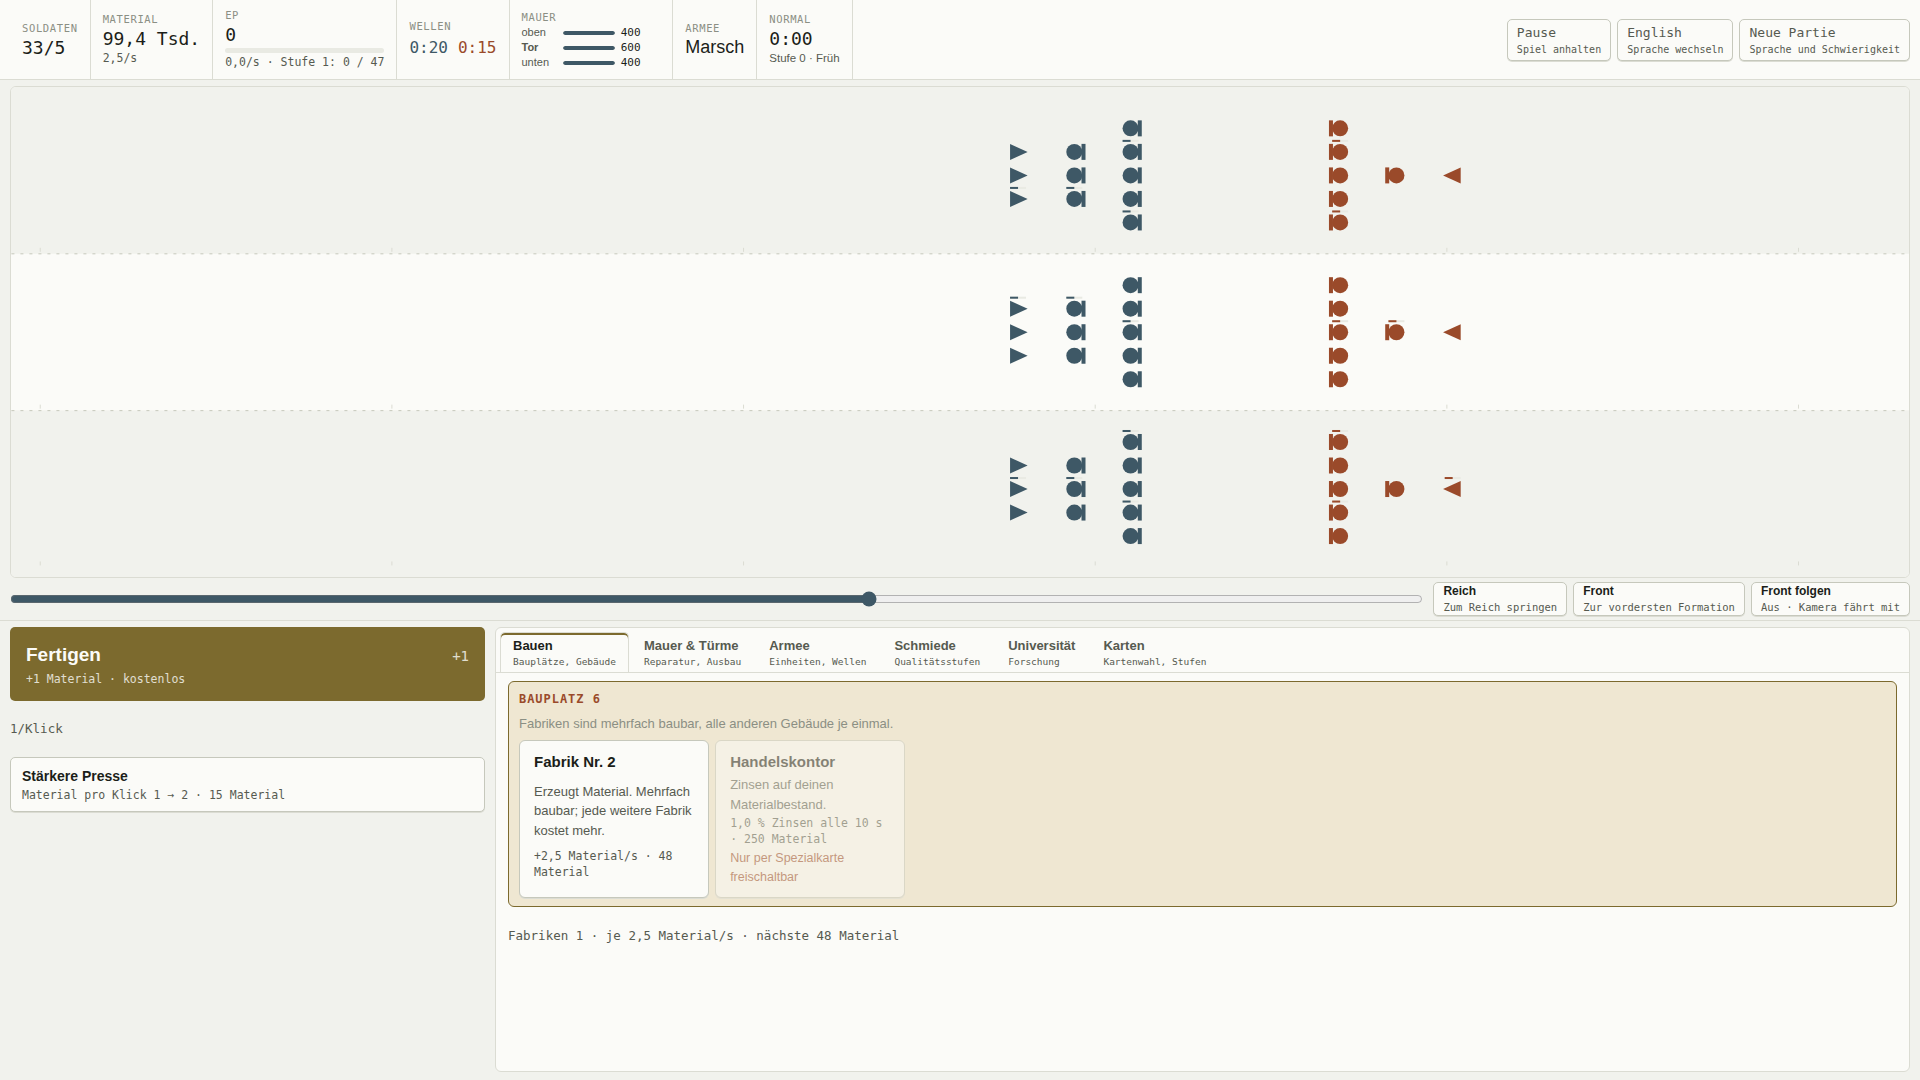
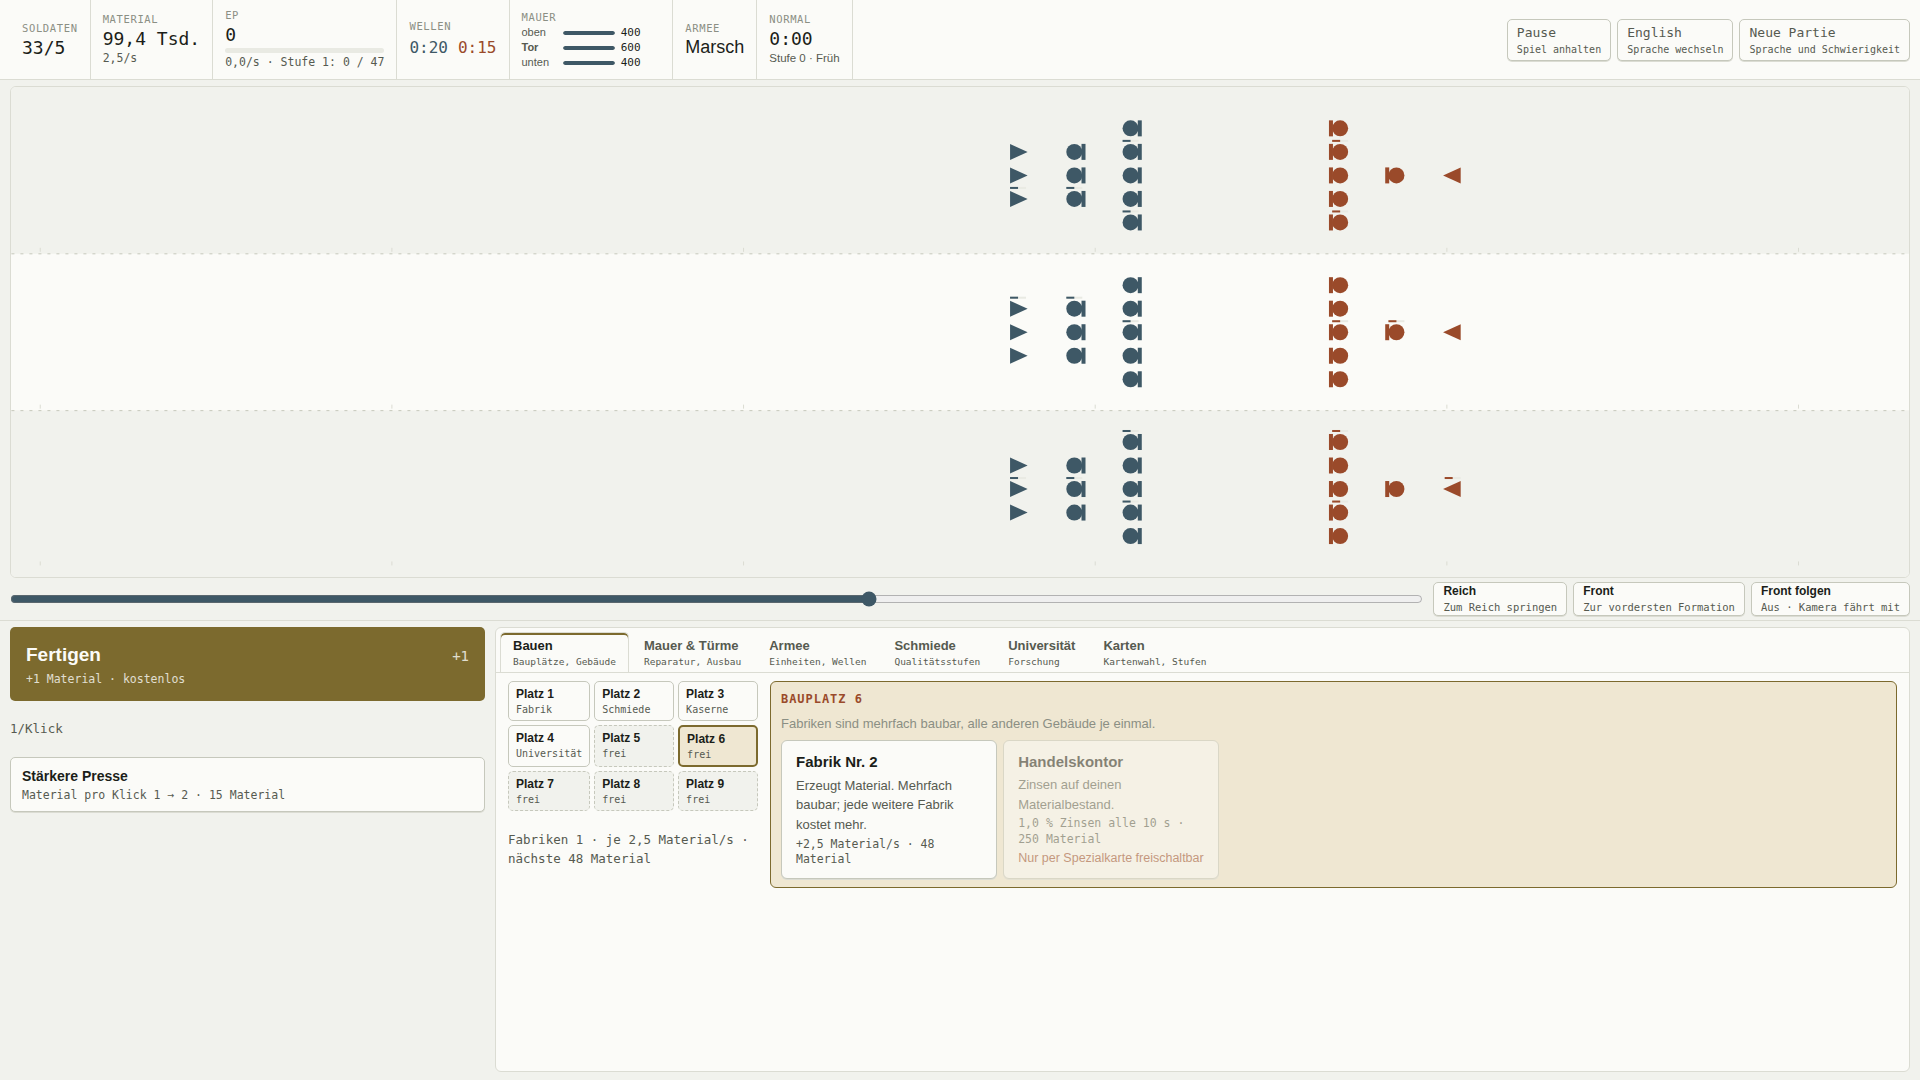
I5.4: Bauen über den Arbeitsbereich – Knopfraster, zwei Klicks, Tastatur
Claude-Session: https://claude.ai/code/session_01RqqApCTqB6RFHL8EkvpfCn

Changed region(s): [[0.25, 0.6111, 1.0, 0.8861], [0.5312, 0.6417, 0.5625, 0.6722]]

diff --git a/panels.js b/panels.js
@@ -8,7 +8,7 @@ const TABS = ['build', 'wall', 'army', 'smithy', 'uni', 'cards'];
 let activeTab = 'build';
 /* Auswahl in der Welt: null | { kind: 'plot', i } | { kind: 'section', lane } */
 let sel = null, ctxKey = '', demolishArmed = false, picks = [];
-const tabEls = {};
+const tabEls = {}, gridEls = [];
 
 /* Reiter eines Objekts: Schmiede und Universität haben eigene Reiter, übrige Gebäude und Bauplätze gehören zu Bauen */
 function tabForSel(s){
@@ -62,6 +62,28 @@ function buildPanels(){
                : e.key === 'Home' ? vis[0] : e.key === 'End' ? vis[vis.length - 1] : null;
     if (next){ e.preventDefault(); selectTab(next, true); }
   });
+  // Knopfraster der Bauplätze (REQ-5.04): Maus oder Tastatur; Pfeiltasten bewegen den Fokus, Enter wählt den Platz
+  // und springt zur ersten baubaren Option, ein zweites Enter baut
+  const grid = $('plotGrid');
+  for (let i = 0; i < KlammerCore.SLOTS; i++){
+    const b = document.createElement('button');
+    b.type = 'button'; b.setAttribute('role', 'gridcell'); b.dataset.tooltip = 'grid:' + i; b.tabIndex = i === 0 ? 0 : -1;
+    b.innerHTML = '<span class="btn-label"></span><span class="expl"></span>';
+    b.addEventListener('click', e => {
+      selectPlot(i);
+      if (e.detail === 0) requestAnimationFrame(() => { renderPanels(); const first = [...document.querySelectorAll('#ctxBuild .pick')].find(p => !isDis(p)); (first || b).focus(); });
+    });
+    grid.appendChild(b);
+    gridEls.push({ btn: b, label: b.children[0], expl: b.children[1] });
+  }
+  grid.addEventListener('keydown', e => {
+    const i = gridEls.findIndex(g => g.btn === document.activeElement);
+    if (i < 0) return;
+    const N = C.GRID_SIZE, r = Math.floor(i / N), c = i % N;
+    const to = e.key === 'ArrowRight' ? r * N + (c + 1) % N : e.key === 'ArrowLeft' ? r * N + (c + N - 1) % N
+             : e.key === 'ArrowDown' ? ((r + 1) % N) * N + c : e.key === 'ArrowUp' ? ((r + N - 1) % N) * N + c : -1;
+    if (to >= 0){ e.preventDefault(); gridEls.forEach((g, k) => { g.btn.tabIndex = k === to ? 0 : -1; }); gridEls[to].btn.focus(); }
+  });
   for (const id in C.UPGRADES) optEls[id] = makeOpt($(GROUP_BOX[C.UPGRADES[id].group]), '', 'upg:' + id, () => G.buy(id));
   for (const id in C.UNITS) optEls['unit_' + id] = makeOpt($('optsUnits'), 'unit', 'unit:' + id, () => G.spawn(id));
   for (let i = 0; i < C.LANE_COUNT; i++) optEls['repair_' + i] = makeOpt($('optsRepair'), '', 'repair:' + i, () => G.repair(i));
@@ -92,8 +114,11 @@ function updatePicks(){
     setDis(p.b, !!block);
   }
 }
+/* Kontextkopf sichtbar im Reiter des Objekts; Bauplätze und ihre Gebäude zeigt er auch im Reiter Bauen,
+   damit nach einem Bau kein Reiterwechsel nötig ist (REQ-5.04) */
+const ctxVisible = () => !!sel && (tabForSel(sel) === activeTab || (sel.kind === 'plot' && activeTab === 'build'));
 function renderContext(){
-  const S = G.S, show = !!sel && tabForSel(sel) === activeTab;
+  const S = G.S, show = ctxVisible();
   setHidden($('ctxHead'), !show);
   const plot = show && sel.kind === 'plot', sl = plot ? S.slots[sel.i] : null, sec = show && sel.kind === 'section' ? sel.lane : null;
   setHidden($('ctxBuilding'), !sl);
@@ -322,7 +347,15 @@ function renderPanels(){
 
   renderOpts();
   renderContext();
-  setHidden($('buildHint'), !!sel && tabForSel(sel) === 'build');
+  setHidden($('buildHint'), !!sel && sel.kind === 'plot');
+  $('tabBody').classList.toggle('side-by-side', activeTab === 'build');
+  for (let i = 0; i < gridEls.length; i++){
+    const g = gridEls[i], sl = S.slots[i];
+    setText(g.label, t('grid.cell', { n: i + 1 }));
+    setText(g.expl, sl ? t(`bld.${sl.type}.name`) : t('grid.free'));
+    g.btn.classList.toggle('built', !!sl);
+    g.btn.setAttribute('aria-selected', String(!!sel && sel.kind === 'plot' && sel.i === i));
+  }
   setText($('factoryStat'), t('fab.stat', { n: G.factoryCount(), rate: fmt1(G.factoryRate()), next: costText('material', G.factoryCost()) }));
   // Armee
   setText($('queue'), `${S.queue.length}/${G.supplyCap()}`);

diff --git a/index.html b/index.html
@@ -270,6 +270,15 @@
   #ctxDemolish:empty, #ctxRepair:empty{display:none;}
   #ctxBuilding[hidden], #ctxRepair[hidden]{display:none;}
   .hintbox{bottom:auto; top:calc(var(--band-hud, 72px) + 8px);}
+  /* Reiter Bauen (REQ-5.04): Knopfraster links, Kontextkopf rechts */
+  .tab-body.side-by-side{display:grid; grid-template-columns:minmax(210px, 250px) minmax(0, 1fr); align-items:start; gap:8px 12px;}
+  .tab-body.side-by-side #panel-build{order:-1;}
+  .plot-grid{display:grid; grid-template-columns:repeat(3, 1fr); gap:4px;}
+  .plot-grid button{display:flex; flex-direction:column; align-items:flex-start; gap:0; padding:3px 7px; min-height:40px; border:1px dashed var(--rule-strong);
+                    border-radius:5px; background:var(--bg); cursor:pointer; text-align:left;}
+  .plot-grid button.built{border-style:solid; background:var(--surface);}
+  .plot-grid button[aria-selected="true"]{border:2px solid var(--brass); background:var(--brass-soft);}
+  .plot-grid .btn-label{font-weight:600; font-size:12px;} .plot-grid .expl{font-size:10px;}
 </style>
 </head>
 <body>
@@ -318,7 +327,7 @@
     </div>
     <div class="work-tabs">
       <div class="tabs" id="tabs" role="tablist"></div>
-      <div class="tab-body">
+      <div class="tab-body" id="tabBody">
         <div class="ctx-head" id="ctxHead" hidden>
           <h2 class="ph rust" id="ctxTitle"></h2>
           <p class="hint" id="ctxText"></p>
@@ -331,6 +340,7 @@
           <div class="ctx-actions" id="ctxDemolish"></div>
         </div>
         <div class="tabpanel" id="panel-build" role="tabpanel">
+          <div class="plot-grid" id="plotGrid" role="grid" data-i18n-aria="grid.aria"></div>
           <p class="hint" id="buildHint" data-i18n="panel.build.hint"></p>
           <p class="statline" id="factoryStat"></p>
         </div>

diff --git a/ui.js b/ui.js
@@ -43,6 +43,7 @@ function t(key, params){
 }
 function applyStaticTexts(){
   document.querySelectorAll('[data-i18n]').forEach(el => { el.textContent = t(el.dataset.i18n); });
+  document.querySelectorAll('[data-i18n-aria]').forEach(el => { el.setAttribute('aria-label', t(el.dataset.i18nAria)); });
   if (typeof renderHint === 'function' && document.getElementById('hintBox')) renderHint();
   $('lane').setAttribute('aria-label', t('lane.aria'));
   $('footVersion').textContent = t('foot.version', { v: C.VERSION });

diff --git a/i18n/de.js b/i18n/de.js
@@ -408,4 +408,7 @@ KF_I18N.de = {
   'sub.repair': 'Reparatur',
   'panel.smithy.text': 'Qualitätsstufe {n}. Jede Stufe stärkt alle Einheiten.',
   'tip.grid.empty': 'Freier Bauplatz.',
+  'grid.free': 'frei',
+  'grid.aria': 'Bauplätze im Reich',
+  'grid.cell': 'Platz {n}',
 };

diff --git a/i18n/en.js b/i18n/en.js
@@ -408,4 +408,7 @@ KF_I18N.en = {
   'sub.repair': 'Repair',
   'panel.smithy.text': 'Quality level {n}. Every level strengthens all units.',
   'tip.grid.empty': 'Free plot.',
+  'grid.free': 'free',
+  'grid.aria': 'Plots in your realm',
+  'grid.cell': 'Plot {n}',
 };

diff --git a/docs/STAND.md b/docs/STAND.md
@@ -11,7 +11,7 @@ Stand von Iteration 4: `docs/archiv/STAND-iteration-4.md`.
 | I5.1 | Eingabe: Ursache belegen, beheben | 5.01 | fertig |
 | I5.2 | Umbenennung zu EP | 5.02 | fertig |
 | I5.3 | Drei Bänder, Aufteilung von `ui.js` | 5.03 | fertig |
-| I5.4 | Bauen über den Arbeitsbereich, Tastatur | 5.04 | offen |
+| I5.4 | Bauen über den Arbeitsbereich, Tastatur | 5.04 | fertig |
 | I5.5 | Einzelsimulation | 5.05 | offen |
 | I5.6 | Armee als gemeinsame Welle | 5.06 | offen |
 | I5.7 | Universität | 5.07 | offen |
@@ -46,6 +46,9 @@ Kennzahlen der Basisserie (Median Sieg; Siegquote):
 | Schwer | 8:59 · 84 % | 10:23 · 52 % | 11:39 · 26 % | 0 % | 0 %, spätestens 21:07 |
 
 ## Prüfergebnisse
+- I5.4: `npm test` 85/85, Browser-Prüfung 166/166, Kurzsimulation unverändert. Neue Prüfpunkte: Bau aus der Welt in genau zwei Klicks (Platz bleibt
+  ausgewählt, Abriss sichtbar), aus dem Knopfraster in genau zwei Klicks (Kaserne mit Ausbau im Kontextkopf), nicht bezahlbare Optionen sichtbar, gesperrt
+  und mit fehlender Menge, Bau vollständig per Tastatur (Pfeiltasten im Raster, Enter wählt, Enter baut).
 - I5.3: `npm test` 85/85, Browser-Prüfung 161/161, Kurzsimulation unverändert 12 Siege, 8 Niederlagen, 0 offen.
   Bänder (Leiste / Welt / Arbeitsbereich): 1280×720 72 px / 50,0 % / 40,0 %; 1366×768 77 px / 50,0 % / 40,0 %; 1920×1080 80 px (Höchstwert) / 50,0 % / 42,6 %;
   2560×1440 80 px / 50,0 % / 44,4 %; nirgends Dokument-Scroll. Bildzeit mit 60 Einheiten 0,3–0,8 ms. Bildschirmfotos: `reports/screens/i5-layout-*.png`.
@@ -110,3 +113,7 @@ und `user-select: none`. Tastenwiederholung löst keine Einheitenkäufe aus.
 14. **Ereignisprotokoll, Wellenvorschau und Abschüsse** stehen im Reiter Armee; Kamera-Knöpfe und Scrollleiste unter der Spielwelt; die Lebenspunkte der
     gegnerischen Basis zeigt weiter der Balken an der Basis in der Welt.
 15. **Hinweisfenster** liegt jetzt oben unter der Leiste statt unten, damit es den Arbeitsbereich nicht verdeckt.
+16. **Tastaturbau:** Enter auf einem Rasterplatz wählt ihn und setzt den Fokus auf die erste baubare Option; ein zweites Enter baut. Mit der Maus springt der
+    Fokus nicht, damit sich nichts unter dem Zeiger verschiebt.
+17. **Kontextkopf im Reiter Bauen:** Für Bauplätze erscheint er auch dann im Reiter Bauen, wenn das Gebäude einen eigenen Reiter hat (Schmiede, Universität).
+    So bleibt der Platz nach dem Bau ausgewählt und zeigt Abriss, ohne dass der Reiter wechselt. Die Upgrades der Schmiede stehen im Reiter Schmiede.
